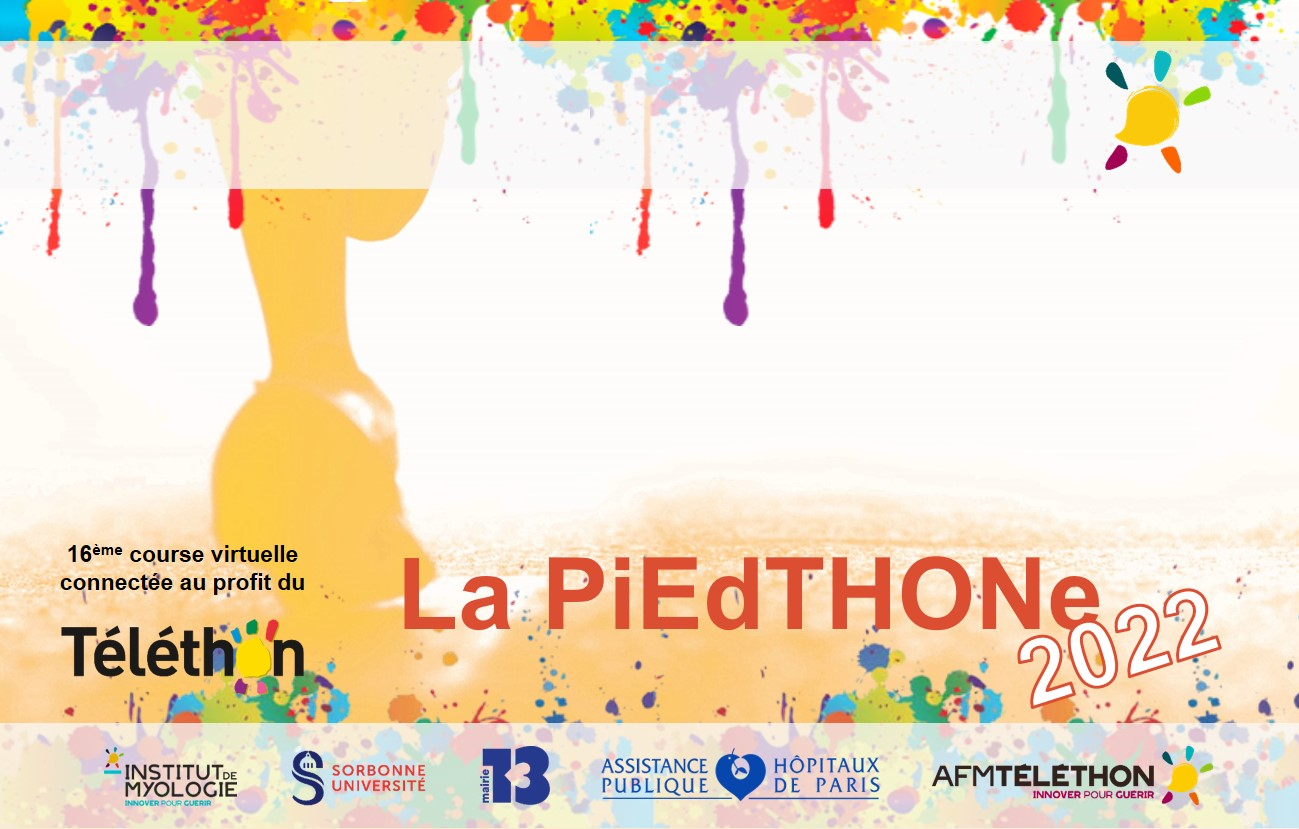
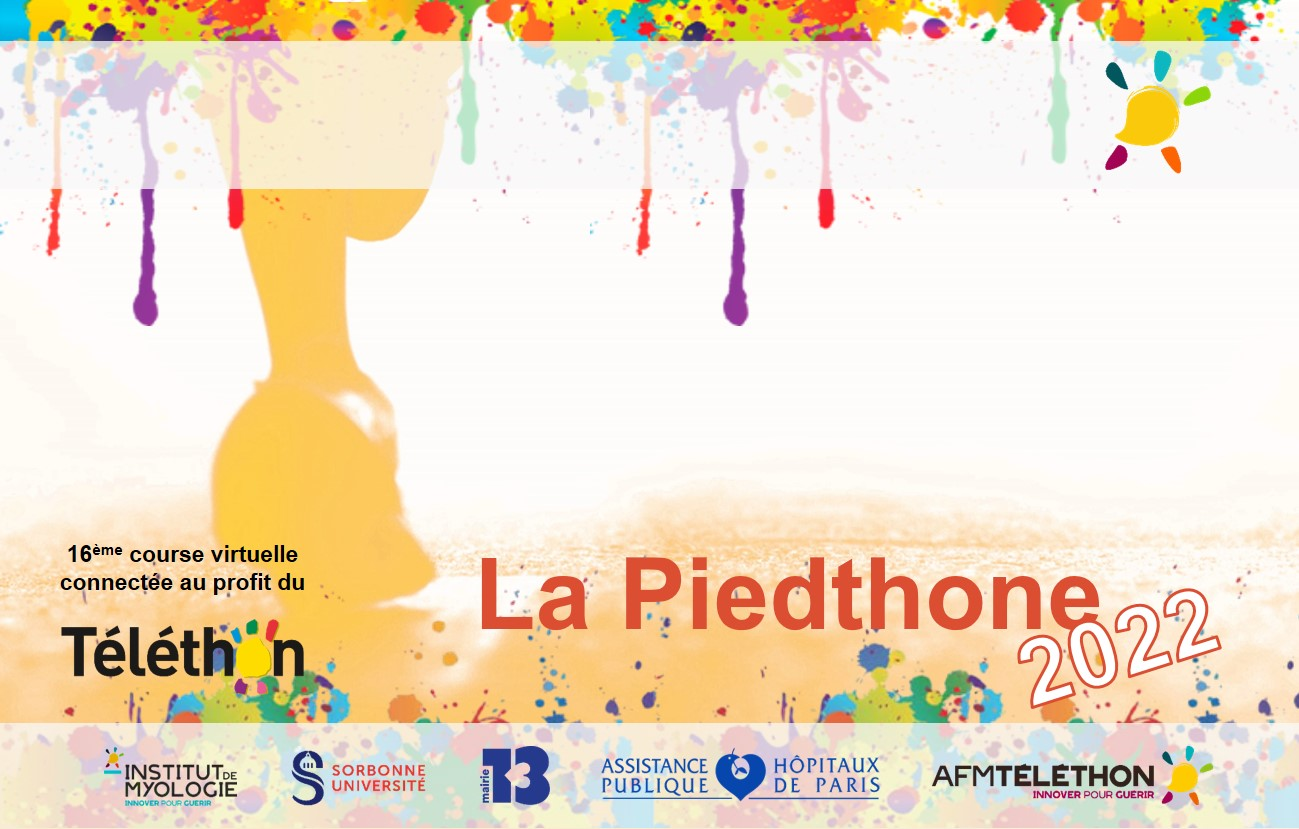
update

Changed region(s): [[0.3079, 0.6634, 0.8006, 0.7841]]

diff --git a/2022.py b/2022.py
@@ -103,7 +103,7 @@ logos = Image.open("images/Logos.png")
 add_bg_from_local('images/fond.png')
 
 
-st.title("La PiEdTHONe 2022")
+st.title("La Piedthone 2022")
 st.header("Génération du dossard")
 
 st.sidebar.image(logos)
